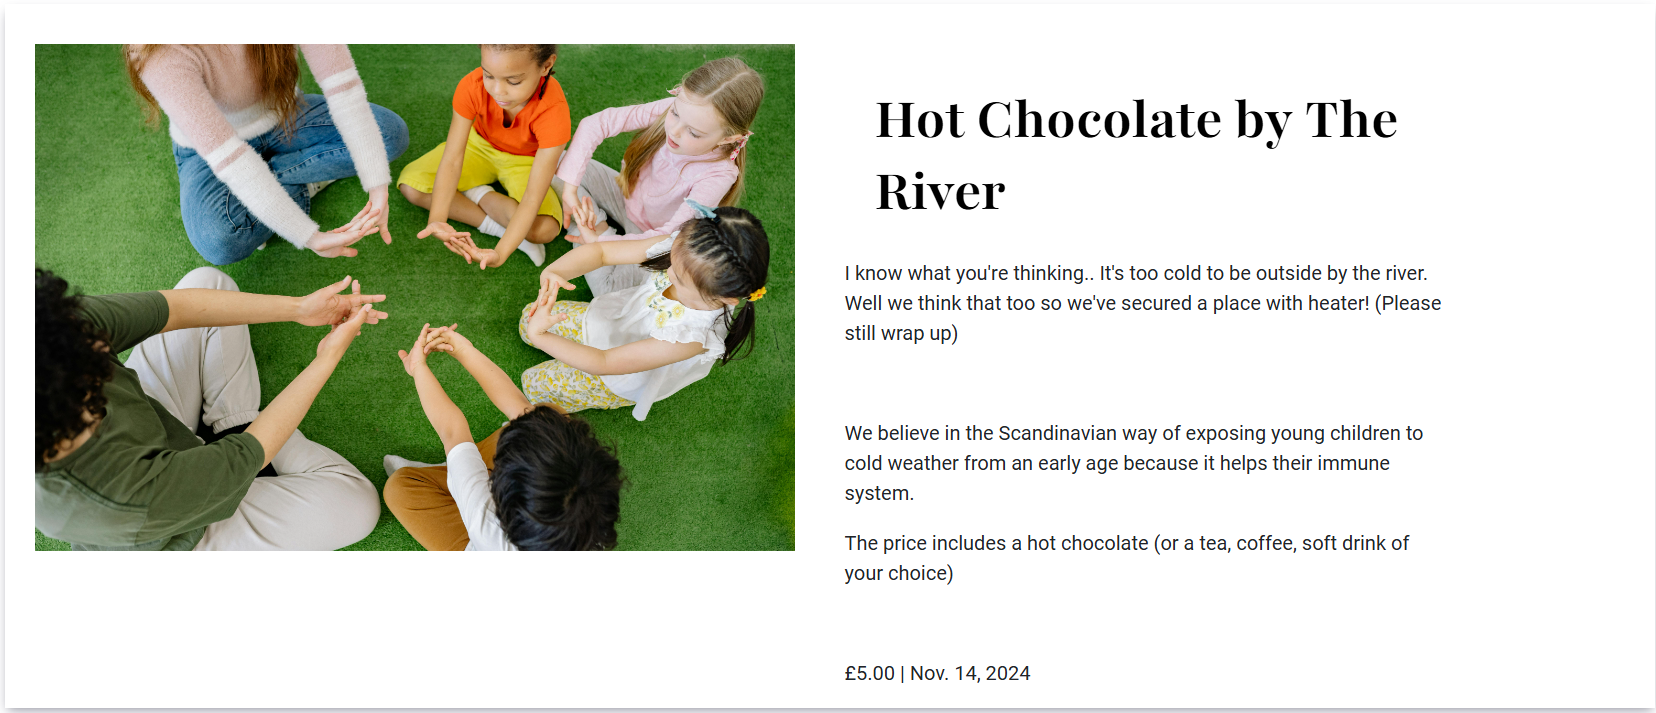
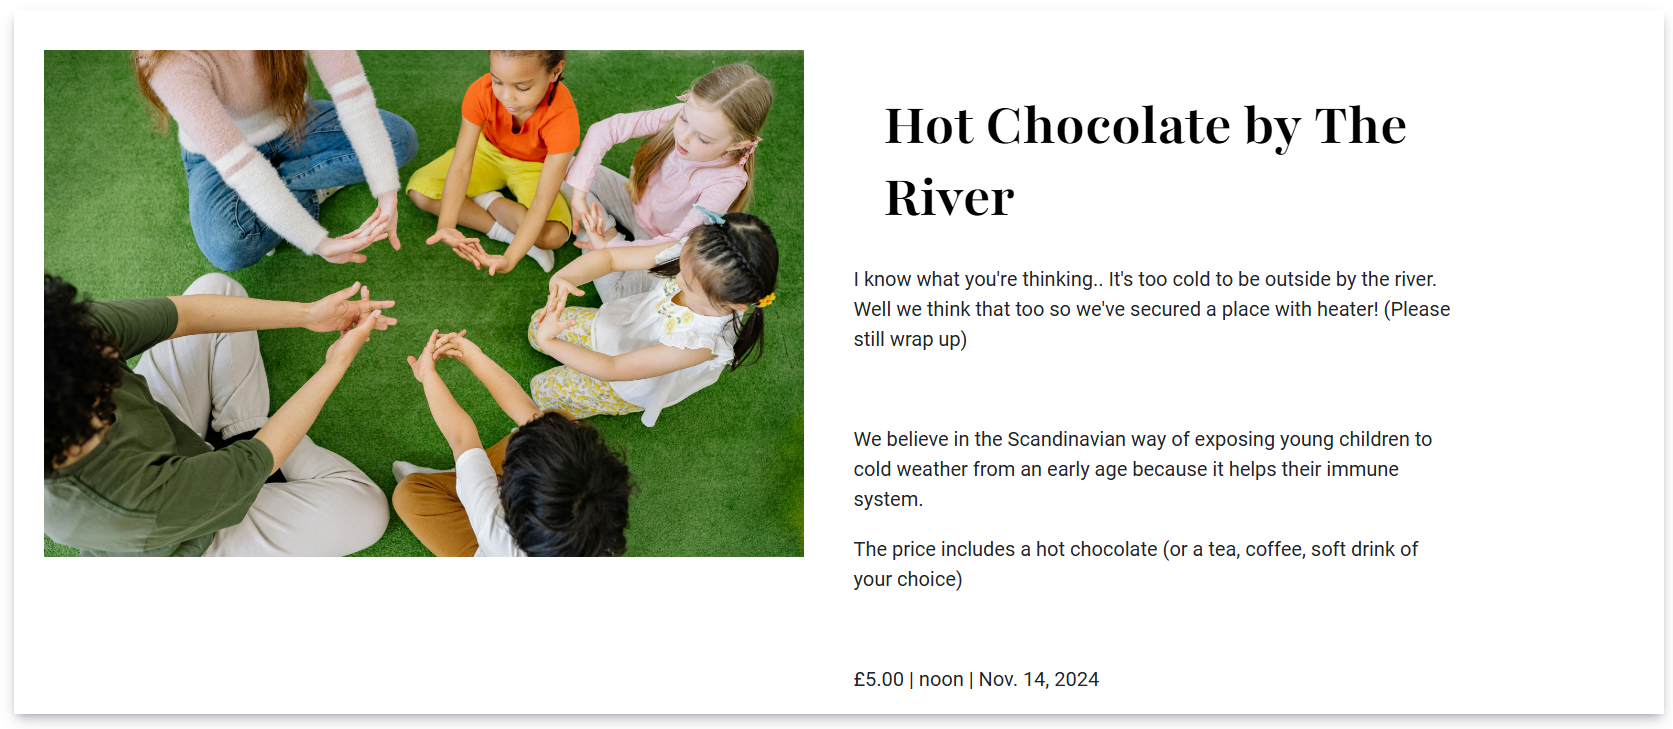
Add event detail to readme

diff --git a/event/templates/event/event_detail.html b/event/templates/event/event_detail.html
@@ -17,7 +17,7 @@
                         <p class="card-text">
                             {{ event.event_about | safe }}
                         </p>
-                        <p class="card-text">£{{ event.event_price }} | {{ event.event_date }}</p>
+                        <p class="card-text">£{{ event.event_price }} | {{ event.event_time }} | {{ event.event_date }}</p>
                     </div>
                 </div>
             </div>

diff --git a/README.md b/README.md
@@ -63,204 +63,209 @@ Welcome to <a href="https://wawa-land-04eebd0de719.herokuapp.com/">Wawa Land</a>
 # Features
   ## Existing Features
 
-  ### Site Wide Features
+  - ## Site Wide Features
 
-  - ### Navigation Bar
-    Featured on all pages, the fully responsive navigation bar includes links to the Home page, Blog page, Events page, Log in and Register pages when the user is not logged in. Once the user logs in the Log in and Register links change to Sign Out and a user Profile page is made available. The nav bar allows the user to easily navigate to the main pages across the site.
+    - ### Navigation Bar
+      Featured on all pages, the fully responsive navigation bar includes links to the Home page, Blog page, Events page, Log in and Register pages when the user is not logged in. Once the user logs in the Log in and Register links change to Sign Out and a user Profile page is made available. The nav bar allows the user to easily navigate to the main pages across the site.
 
-    A decision was made to not put the Add Post page into the navigation bar as I wanted to make it clear that the Add Post function was only available for the blog.
-  
-    <details><summary>Navigation Bar whilst user is logged out:</summary>
+      A decision was made to not put the Add Post page into the navigation bar as I wanted to make it clear that the Add Post function was only available for the blog.
     
-    ![Desktop view](static/images/screenshots/desktop-nav.png)
-    ![Mobile view](static/images/screenshots/mobile-nav.png)
-    
-    </details>
-
-    <details><summary>Navigation Bar whilst user is logged in:</summary>
-    
-    ![Desktop view](static/images/screenshots/navbar-logged-in.png)
-    ![Mobile view](static/images/screenshots/mobile-navbar-logged-in.png)
-    
-    </details>
-
-    [Back To Top](<#contents>)
-  
-  - ### Logged In Banner
-    Once a user has logged in, there is visual feedback in the form of a message stating their logged in status in a banner that is a slightly light shade than the navbar.
-
-    <details><summary>Logged In Banner</summary>
-    
-    ![Desktop view](static/images/screenshots/loggedin-banner.png)
-    ![Mobile view](static/images/screenshots/mobile-loggedin-banner.png)
-    
-    </details>
-
-    [Back To Top](<#contents>)
-
-  - ### Footer
-    The footer section has 4 sections which include 'About', which explains a bit about the site, 'Social Media', with links to the relevant social media sites for Wawa Land, 'Contact Us', which includes a link to send us an email and the 'Copyright' section. The footer can be seen across all pages and is fully responsive.
-
-    <details><summary>Footer</summary>
-    
-    ![Desktop view](static/images/screenshots/desktop-footer.png)
-    ![Mobile view](static/images/screenshots/mobile-footer.png)
-    
-    </details>
-
-    [Back To Top](<#contents>)
-
-  - ### Messages
-    Messages have been utilized to give users instant feedback for action they take. Success messages and error messages are distinguishable by their colour; green has been used for success and red for error messages.
-
-    <details><summary>Success Messages</summary>
-    
-    ![Desktop view](static/images/screenshots/desktop-success-message.png)
-    ![Mobile view](static/images/screenshots/mobile-success-message.png)
-    
-    </details>
-
-    <details><summary>Error Messages</summary>
-    
-    ![Desktop view](static/images/screenshots/desktop-error-message.png)
-    ![Mobile view](static/images/screenshots/mobile-error-message.png)
-    
-    </details>
-
-    [Back To Top](<#contents>)
-
-  ### Pages
-
-  - ### Home Page
-    The homepage is the first page a user sees when coming to Wawa Land. The hero section includes a welcome message and a call to action to sign up. Below the hero section, the user can find out what to use Wawa Land for with navigable links to the Blog and the Event page. The cursor style changes when a user hovers over the respective sections, letting them know they are both links.
-
-    <details><summary>Home page</summary>
-
-    ![Desktop view](static/images/screenshots/homepage-hero.png)
-    ![Desktop view](static/images/screenshots/desktop-homepage.png)
-    ![Mobile view](static/images/screenshots/mobile-homepage-hero.png)
-    ![Mobile view](static/images/screenshots/mobile-homepage.png)
-    
-    </details>
-
-    [Back To Top](<#contents>)
-
-  - ### Blog
-    When a user clicks the 'Blog' in the navbar they are taken to the blog list page. At the top of the page there is a prompt for the user to add their own post. The button to take them to write their own post only appears to users who are logged in, if they are not they will be prompted to log in.
-    
-    Below, the user can see all the posts that are available to read on the site. The blog posts can be from any user and are displayed here once they have been approved by the Wawa Land administration. They are ordered with the newest appearing first. Users of the site (logged in or not) can click on a blog post title to be taken to read the full article. Only 6 posts will appear per page, users will be able to navigate through the pages of the blog to see all the content available.
-
-    <details><summary>Add Post Prompt</summary>
-
-    ![Logged in](static/images/screenshots/add-new-post.png)
-    ![Logged out](static/images/screenshots/add-new-post-logged-out.png)
-    </details>
-
-    <details><summary>Blog Article List</summary>
-
-    ![Blog Article List](static/images/screenshots/blog-posts.png)
-    </details>
-
-    [Back To Top](<#contents>)
-
-    - #### Add New Blog Post
-      To reach this page, a user needs to have clicked on 'Add Post' on the blog page. The user is prompted to add their own blog post by a form. They must give their post a title and a body. If a user attempts to submit a post without a title or a body an error message appears at the top as well as visual feedback that the fields are required.
-
-      <details><summary>Add New Post Form</summary>
-
-      ![Desktop](static/images/screenshots/desktop-add-post.png)
-      ![Mobile](static/images/screenshots/mobile-add-post.png)
+      <details><summary>Navigation Bar whilst user is logged out - Desktop View</summary>
+      ![Desktop view](static/images/screenshots/desktop-nav.png)
+      </details>
+      <details><summary>Navigation Bar whilst user is logged out - Mobile View</summary>
+      ![Mobile view](static/images/screenshots/mobile-nav.png)
       </details>
 
-      <details><summary>Visual Feedback for Invalid Form</summary>
-
-      ![Invalid Title](static/images/screenshots/invalid-title.png)
-      ![Invalid Feedback](static/images/screenshots/addpost-error-message.png)
-      ![Invalid Feedback](static/images/screenshots/field-required.png)
+      <details><summary>Navigation Bar whilst user is logged in - Desktop View</summary>
+      ![Desktop view](static/images/screenshots/navbar-logged-in.png)
       </details>
+      <details><summary>Navigation Bar whilst user is logged in - Mobile View</summary>
+      ![Mobile view](static/images/screenshots/mobile-navbar-logged-in.png)
+      </details>
+
+      [Back To Top](<#contents>)
+    
+    - ### Logged In Banner
+      Once a user has logged in, there is visual feedback in the form of a message stating their logged in status in a banner that is a slightly light shade than the navbar.
+
+      <details><summary>Logged In Banner - Desktop View</summary>
+      ![Desktop view](static/images/screenshots/loggedin-banner.png)
+      </details>
+      <details><summary>Logged In Banner - Mobile View</summary>
+      ![Mobile view](static/images/screenshots/mobile-loggedin-banner.png)
+      </details>
+
+      [Back To Top](<#contents>)
+
+    - ### Footer
+      The footer section has 4 sections which include 'About', which explains a bit about the site, 'Social Media', with links to the relevant social media sites for Wawa Land, 'Contact Us', which includes a link to send us an email and the 'Copyright' section. The footer can be seen across all pages and is fully responsive.
+
+      <details><summary>Footer - Desktop View</summary>
+      ![Desktop view](static/images/screenshots/desktop-footer.png)
+      </details>
+      <details><summary>Footer - Mobile View</summary>
+      ![Mobile view](static/images/screenshots/mobile-footer.png)
+      </details>
+
+      [Back To Top](<#contents>)
+
+    - ### Messages
+      Messages have been utilized to give users instant feedback for action they take. Success messages and error messages are distinguishable by their colour; green has been used for success and red for error messages.
+
+      <details><summary>Success Messages - Desktop View</summary>
+      ![Desktop view](static/images/screenshots/desktop-success-message.png)
+      </details>
+      <details><summary>Success Messages - Mobile View</summary>
+      ![Mobile view](static/images/screenshots/mobile-success-message.png)
+      </details>
+
+      <details><summary>Error Messages - Desktop View</summary>
+      ![Desktop view](static/images/screenshots/desktop-error-message.png)
+      </details>
+      <details><summary>Error Messages - Mobile View</summary>
+      ![Mobile view](static/images/screenshots/mobile-error-message.png)
+      </details>
+
+      [Back To Top](<#contents>)
+
+
+  - ## Pages
+
+    - ### Home Page
+      The homepage is the first page a user sees when coming to Wawa Land. The hero section includes a welcome message and a call to action to sign up. Below the hero section, the user can find out what to use Wawa Land for with navigable links to the Blog and the Event page. The cursor style changes when a user hovers over the respective sections, letting them know they are both links.
+
+      <details><summary>Home Page - Desktop View</summary>
+
+      ![Desktop view](static/images/screenshots/homepage-hero.png)
+      ![Desktop view](static/images/screenshots/desktop-homepage.png)
+      </details>
+      <details><summary>Home Page - Mobile View</summary>
+      ![Mobile view](static/images/screenshots/mobile-homepage-hero.png)
+      ![Mobile view](static/images/screenshots/mobile-homepage.png)
+      </details>
+
+      [Back To Top](<#contents>)
+
+
+    - ### Blog
+      When a user clicks the 'Blog' in the navbar they are taken to the blog list page. At the top of the page there is a prompt for the user to add their own post. The button to take them to write their own post only appears to users who are logged in, if they are not they will be prompted to log in.
       
-      [Back To Top](<#contents>)
+      Below, the user can see all the posts that are available to read on the site. The blog posts can be from any user and are displayed here once they have been approved by the Wawa Land administration. They are ordered with the newest appearing first. Users of the site (logged in or not) can click on a blog post title to be taken to read the full article. Only 6 posts will appear per page, users will be able to navigate through the pages of the blog to see all the content available.
 
-
-    - #### Blog Post
-      Each blog post is rendered on it's own page. All posts have the same format of an image, placeholder or user uploaded, the title, the author and date and time the post was written or updated. Underneath the blog post the user can 'like' or 'unlike' the post. Below the likes section and comment counter, the user can leave their own comment.
-
-      <details><summary>Individual Blog Post</summary>
-      ![Individual Blog Post](static/images/screenshots/post-detail.png)
+      <details><summary>Add Post Prompt</summary>
+      ![Logged in](static/images/screenshots/add-new-post.png)
+      ![Logged out](static/images/screenshots/add-new-post-logged-out.png)
       </details>
-       
+
+      <details><summary>Blog Article List</summary>
+      ![Blog Article List](static/images/screenshots/blog-posts.png)
+      </details>
       [Back To Top](<#contents>)
 
-      - ##### Likes
-        Only logged-in users can 'like' or 'unlike' posts. For a successful 'like' a green success error message is shown at the top of the page. If a user 'unlikes' a post a red error message is shown. A red error message for 'unliking' was chosen as it may have been a mistake that the user clicked on the heart again, therefore I wanted to make the user aware the action they have taken. The likes show without the need for the page to be refreshed.
 
-        Within the likes section, there is also a comment counter. The number of approved comments is shown.
+      - #### Add New Blog Post
+        To reach this page, a user needs to have clicked on 'Add Post' on the blog page. The user is prompted to add their own blog post by a form. They must give their post a title and a body. If a user attempts to submit a post without a title or a body an error message appears at the top as well as visual feedback that the fields are required.
 
-        <details><summary>Likes and Comment Counter Section</summary>
-        ![Likes and Comment Count Section](static/images/screenshots/likes-and-comment-count.png)
+        <details><summary>Add New Post Form</summary>
+        ![Desktop](static/images/screenshots/desktop-add-post.png)
+        ![Mobile](static/images/screenshots/mobile-add-post.png)
+        </details>
+
+        <details><summary>Visual Feedback for Invalid Form</summary>
+        ![Invalid Title](static/images/screenshots/invalid-title.png)
+        ![Invalid Feedback](static/images/screenshots/addpost-error-message.png)
+        ![Invalid Feedback](static/images/screenshots/field-required.png)
         </details>
         
         [Back To Top](<#contents>)
 
-      - ##### Comments
-        Only logged-in users can comment on a post. If the user is not logged-in, they are prompted to log in to leave a comment. The 'log in' is a link to take the user to the log in page.
 
-        Once a user is logged in, they can view all users comments as well as their own unapproved comments. There are 'Edit' and 'Delete' buttons under the user's own comments. If they choose to edit their comment, the 'Leave Comment' section is populated with the user's comment they wish to change. Once the user clicks update, the comment is shown on the left side. If the user chooses to update a comment that was already approved, it will need to be approved again by the Wawa Land admin. The 'Delete' button will bring up a modal message confirming if the user would liek to delete it. This is a precaution as the user may have accidentally clicked the delete button. If this is the case the user can close the delete confirmation message and nothing will happen. If the user chooses to delete the comment, it will be deleted from the database. This action cannot be undone.
+      - #### Blog Post
+        Each blog post is rendered on it's own page. All posts have the same format of an image, placeholder or user uploaded, the title, the author and date and time the post was written or updated. Underneath the blog post the user can 'like' or 'unlike' the post. Below the likes section and comment counter, the user can leave their own comment.
 
-        <details><summary>Comments Section</summary>
-        ![Comments](static/images/screenshots/comments.png)
+        <details><summary>Individual Blog Post</summary>
+        ![Individual Blog Post](static/images/screenshots/post-detail.png)
         </details>
-        <details><summary>Edit Comment</summary>
-        ![Delete Comment](static/images/screenshots/update-comment.png)
-        </details>
-        <details><summary>Delete Comment Modal</summary>
-        ![Delete Comment](static/images/screenshots/delete-comment.png)
+        
+        [Back To Top](<#contents>)
+
+        - ##### Likes
+          Only logged-in users can 'like' or 'unlike' posts. For a successful 'like' a green success error message is shown at the top of the page. If a user 'unlikes' a post a red error message is shown. A red error message for 'unliking' was chosen as it may have been a mistake that the user clicked on the heart again, therefore I wanted to make the user aware the action they have taken. The likes show without the need for the page to be refreshed.
+
+          Within the likes section, there is also a comment counter. The number of approved comments is shown.
+
+          <details><summary>Likes and Comment Counter Section</summary>
+          ![Likes and Comment Count Section](static/images/screenshots/likes-and-comment-count.png)
+          </details>
+          
+          [Back To Top](<#contents>)
+
+        - ##### Comments
+          Only logged-in users can comment on a post. If the user is not logged-in, they are prompted to log in to leave a comment. The 'log in' is a link to take the user to the log in page.
+
+          Once a user is logged in, they can view all users comments as well as their own unapproved comments. There are 'Edit' and 'Delete' buttons under the user's own comments. If they choose to edit their comment, the 'Leave Comment' section is populated with the user's comment they wish to change. Once the user clicks update, the comment is shown on the left side. If the user chooses to update a comment that was already approved, it will need to be approved again by the Wawa Land admin. The 'Delete' button will bring up a modal message confirming if the user would liek to delete it. This is a precaution as the user may have accidentally clicked the delete button. If this is the case the user can close the delete confirmation message and nothing will happen. If the user chooses to delete the comment, it will be deleted from the database. This action cannot be undone.
+
+          <details><summary>Comments Section</summary>
+          ![Comments](static/images/screenshots/comments.png)
+          </details>
+          <details><summary>Edit Comment</summary>
+          ![Delete Comment](static/images/screenshots/update-comment.png)
+          </details>
+          <details><summary>Delete Comment Modal</summary>
+          ![Delete Comment](static/images/screenshots/delete-comment.png)
+          </details>
+
+          [Back To Top](<#contents>)
+
+    - ### Events Page
+      The events page show all events endorsed by Wawa Land. From the event list page users can see the name of the event, the age range it is suitable for and the date of the event. The events are in descending order where upcoming events are listed first. Users can click on the name of an event to be taken to the event detail page to read more about it.
+
+      <details><summary>Events List</summary>
+      ![Events List](static/images/screenshots/event-list.png)
+      </details>
+
+      [Back To Top](<#contents>)
+
+      - #### Event Detail Page
+        Each event listing is rendered on it's own page. All events have the same format of an image, the name, more information about the event, the price, the time and the date of the event. Currently all events can only be added by the Wawa Land administration. This is due to security, as events are for babies and children, it waws decided that user-added events could pose a risk. Underneath the event listing the user can leave a review for the event.
+
+        <details><summary>Events Listing</summary>
+        ![Events Listing](static/images/screenshots/event-detail.png)
         </details>
 
         [Back To Top](<#contents>)
 
-  - ### Events Page
-    The events page show all events endorsed by Wawa Land. From the event list page users can see the name of the event, the age range it is suitable for and the date of the event. The events are in descending order where upcoming events are listed first. Users can click on the name of an event to be taken to the event detail page to read more about it.
+        - ##### Reviews
 
-    <details><summary>Events List</summary>
+    - ### Profile
+      The profile page is where the user can see all the posts they have written, published or unpublished, all their comments on posts, approved or awating approval and all their likes. It is from the profile page that a user can edit a post, update a comment or delete either.
 
-    ![Events List](static/images/screenshots/event-list.png)
-    </details>
+      <details><summary>Profile Page - Posts Section</summary>
+      ![Profile Page](static/images/screenshots/profile.png)
+      </details>
+      <details><summary>Profile Page - Comments Section</summary>
+      ![Profile Page - Comments Section](static/images/screenshots/profile-2.png)
+      </details>
+      <details><summary>Profile Page - Likes Section</summary>
+      ![Profile Page - Likes Section](static/images/screenshots/profile-likes.png)
+      </details>
 
+      [Back To Top](<#contents>)
+
+        - #### Edit Blog Post
+
+    - ### Register
     [Back To Top](<#contents>)
 
-    - #### Event Detail Page
-
-      - ##### Reviews
-
-  - ### Profile
-    The profile page is where the user can see all the posts they have written, published or unpublished, all their comments on posts, approved or awating approval and all their likes. It is from the profile page that a user can edit a post, update a comment or delete either.
-
-    <details><summary>Profile Page - Posts Section</summary>
-    ![Profile Page](static/images/screenshots/profile.png)
-    </details>
-    <details><summary>Profile Page - Comments Section</summary>
-    ![Profile Page - Comments Section](static/images/screenshots/profile-2.png)
-    </details>
-    <details><summary>Profile Page - Likes Section</summary>
-    ![Profile Page - Likes Section](static/images/screenshots/profile-likes.png)
-    </details>
-
+    - ### Log In
     [Back To Top](<#contents>)
 
-      - #### Edit Blog Post
+    - ### Sign Out
+    [Back To Top](<#contents>)
 
-  - ### Register
-  [Back To Top](<#contents>)
+    - ### Error Pages
+    [Back To Top](<#contents>)
 
-  - ### Log In
-  [Back To Top](<#contents>)
-
-  - ### Sign Out
-  [Back To Top](<#contents>)
-
-  - ### Error Pages
-  [Back To Top](<#contents>)
-
-  - ### Admin Panel
-  [Back To Top](<#contents>)
+    - ### Admin Panel
+    [Back To Top](<#contents>)
